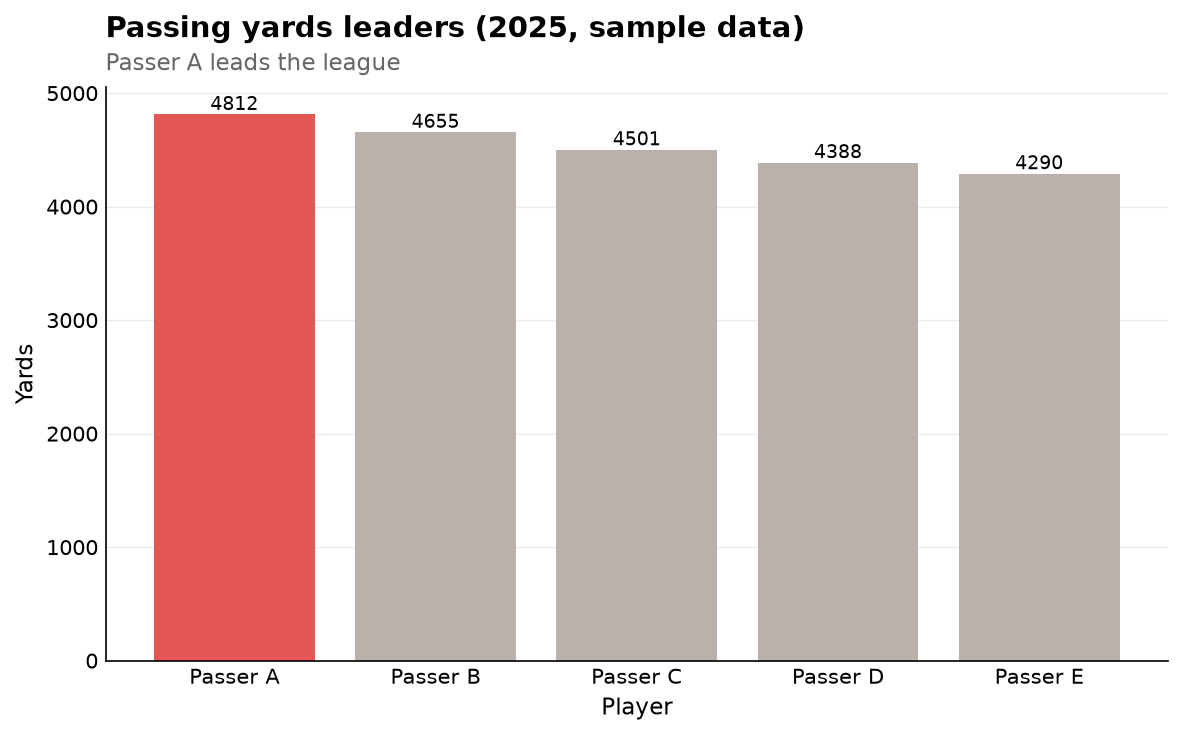
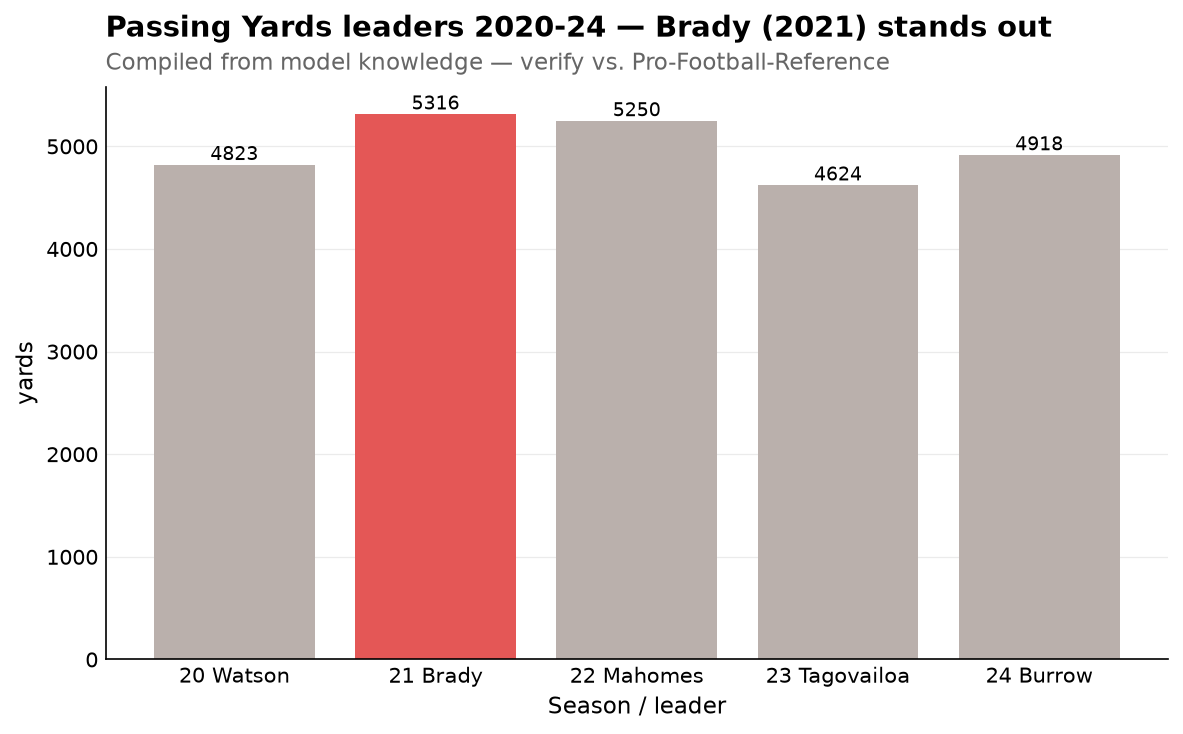
Expand NFL dataset to 2020-2024 with named players and analysis
Replace the single-year placeholder sample with a multi-year dataset of the
NFL season leader in each major category (2020-2024), using real player names.

pro-football-reference.com blocks automated access (HTTP 403), so the values
were compiled from model knowledge rather than scraped -- clearly labeled as
unverified in datasets/README.md, with lower-confidence cells flagged and 2025
omitted (at the knowledge cutoff, unverifiable).

examples/nfl_leaders.py now answers the analytical questions directly from the
data: it accents the standout (peak) season per category with its z-score, and
ranks the most consistent leaders (most category-seasons led) -- surfacing
T.J. Watt as the standout, leading a category in three of five seasons.

Update the dataset/example READMEs and the repo tree; library and tests
unchanged (14 passing).

Claude-Session: https://claude.ai/code/session_01L8PxvjVqt3hSV8zCpXr8Eq

diff --git a/examples/nfl_leaders.py b/examples/nfl_leaders.py
@@ -1,14 +1,18 @@
-"""Visualize NFL statistical leaders with simple_eda.
+"""Analyze and visualize NFL statistical leaders, 2020-2024.
 
-Loads the tidy leaders dataset and renders a bar chart per category, using the
-highlight feature to accent the league leader. Run from the repo root:
+Answers two questions directly from the data:
+  1. Who is the statistical outlier in each category? (highest |z-score| among
+     the yearly leaders in that stat)
+  2. Who performs consistently? (players who led a category in 2+ seasons)
+
+Renders a chart per category (outlier accented) plus a consistency chart.
 
     pip install -e .
     python examples/nfl_leaders.py
 
-By default it reads the clearly-labeled SAMPLE dataset. To chart the real
-2025 numbers, replace that file with real data in the same tidy schema
-(category, stat, unit, rank, player, team, value) -- see datasets/README.md.
+NOTE: pro-football-reference.com blocks automated access, so these values were
+compiled from model knowledge and should be verified against PFR. See
+datasets/README.md for per-cell confidence notes.
 """
 
 from pathlib import Path
@@ -18,39 +22,48 @@ import pandas as pd
 from simple_eda import Chart
 
 ROOT = Path(__file__).resolve().parents[1]
-DATA = ROOT / "datasets" / "nfl_2025_leaders_sample.csv"
+DATA = ROOT / "datasets" / "nfl_leaders_2020_2024.csv"
 IMAGES = Path(__file__).parent / "images"
 IMAGES.mkdir(exist_ok=True)
+CAVEAT = "Compiled from model knowledge — verify vs. Pro-Football-Reference"
 
-leaders = pd.read_csv(DATA)
+df = pd.read_csv(DATA)
+df["last"] = df["player"].str.split().str[-1]
+df["label"] = df["year"].astype(str).str[2:] + " " + df["last"]  # e.g. "20 Henry"
 
-# One bar chart per stat, with the rank-1 leader accented.
-charts = [
-    ("Passing Yards", "Passing yards leaders", "Yards"),
-    ("Rushing Yards", "Rushing yards leaders", "Yards"),
-    ("Receiving Yards", "Receiving yards leaders", "Yards"),
-    ("Sacks", "Sack leaders", "Sacks"),
-]
-
-for stat, title, ylabel in charts:
-    top = leaders[leaders["stat"] == stat].sort_values("value", ascending=False)
-    leader = top.iloc[0]["player"]
+# 1. Standout (high-water-mark) season per category, with its z-score for
+#    context — how far above the other yearly leaders that peak sits.
+print("Standout season per category (peak value; z = SDs above the mean):")
+for stat, g in df.groupby("stat", sort=False):
+    g = g.sort_values("year")
+    mean, std = g["value"].mean(), g["value"].std(ddof=0)
+    g = g.assign(z=(g["value"] - mean) / std)
+    out = g.loc[g["value"].idxmax()]
+    print(f"  {stat:15s}: {out['player']} ({out['year']}) "
+          f"{out['value']:g} {out['unit']}  z={out['z']:+.2f}")
     slug = stat.lower().replace(" ", "_")
-    # Direct value labels + sorted bars + accented leader (checklist-aligned).
-    (Chart(top, x="player")
-        .bar("value", highlight=leader, values=True, sort=True)
-        .title(f"{title} (2025, sample data)")
-        .subtitle(f"{leader} leads the league")
-        .labels(x="Player", y=ylabel)
+    (Chart(g, x="label")
+        .bar("value", highlight=out["label"], values=True)
+        .title(f"{stat} leaders 2020-24 — {out['last']} ({out['year']}) stands out")
+        .subtitle(CAVEAT)
+        .labels(x="Season / leader", y=g["unit"].iloc[0])
         .save(str(IMAGES / f"nfl_{slug}.png")))
 
-# A dot plot -- the Chart Chooser's pick for comparing values across groups.
-sacks = leaders[leaders["stat"] == "Sacks"]
-(Chart(sacks, x="player")
-    .dot("value", highlight=sacks.sort_values("value").iloc[-1]["player"], values=True)
-    .title("Sack leaders (2025, sample data)")
-    .subtitle("A dot plot compares values with minimal ink")
-    .labels(x="Sacks")
-    .save(str(IMAGES / "nfl_sacks_dot.png")))
+# 2. Consistency: who led a category in the most seasons?
+counts = (df["player"].value_counts()
+          .rename_axis("player").reset_index(name="seasons"))
+repeat = counts[counts["seasons"] >= 2].copy()
+repeat["last"] = repeat["player"].str.split().str[-1]
+top = repeat[repeat["seasons"] == repeat["seasons"].max()]["last"].tolist()
+print("\nConsistent leaders (led a category in 2+ seasons):")
+for _, r in repeat.iterrows():
+    print(f"  {r['player']}: {r['seasons']}")
 
-print("Wrote NFL leader charts to", IMAGES)
+(Chart(repeat, x="last")
+    .bar("seasons", highlight=top, values=True, sort=True)
+    .title(f"{' & '.join(top)} led most often, 2020-24")
+    .subtitle("Category-seasons each player led | " + CAVEAT)
+    .labels(x="Player", y="Category-seasons led")
+    .save(str(IMAGES / "nfl_consistency.png")))
+
+print("\nWrote charts to", IMAGES)

diff --git a/datasets/README.md b/datasets/README.md
@@ -1,46 +1,49 @@
 # Datasets
 
-## `nfl_2025_leaders_sample.csv`
+## `nfl_leaders_2020_2024.csv`
 
-NFL statistical leaders in a tidy, one-row-per-record schema, ready to chart
-with `simple_eda` (see [`../examples/nfl_leaders.py`](../examples/nfl_leaders.py)).
+The NFL **season leader** in each major statistical category, 2020–2024, in a
+tidy one-row-per-record schema. Charted and analyzed by
+[`../examples/nfl_leaders.py`](../examples/nfl_leaders.py).
 
 | Column | Meaning |
 | --- | --- |
+| `year` | NFL season (2020–2024) |
 | `category` | Passing, Rushing, Receiving, Defense |
-| `stat` | e.g. Passing Yards, Rushing TDs, Sacks, Interceptions |
-| `unit` | yards, touchdowns, sacks, interceptions |
-| `rank` | 1 = leader in that stat |
-| `player` | player name |
-| `team` | team abbreviation (real) |
-| `value` | the stat total |
+| `stat` | Passing Yards, Passing TDs, Rushing Yards, Rushing TDs, Receiving Yards, Receiving TDs, Sacks |
+| `unit` | yards, touchdowns, sacks |
+| `player` | player who led the league that season |
+| `team` | team abbreviation |
+| `value` | the league-leading total |
 
-> **⚠ This is illustrative SAMPLE data, not real results.** Player names are
-> placeholders (`Passer A`, `Rusher B`, …) and the values are plausible but
-> invented. It exists so the charts run out of the box. Do not cite these
-> numbers.
+### ⚠ Provenance — read this
 
-### Loading the real 2025 leaders
+`pro-football-reference.com` **blocks automated access** (HTTP 403), so this
+data could **not** be scraped. The values were **compiled from model knowledge
+and have not been verified against the source.** Treat them as a starting point
+and confirm against PFR before citing. The marquee leaders (e.g., Henry's 2,027
+rushing yards in 2020, Watt's 22.5 sacks in 2021, Kupp's 1,947 receiving yards
+in 2021) are well documented; the cells below are lower confidence:
 
-The source page — <https://www.pro-football-reference.com/years/2025/leaders.htm>
-— blocks automated requests (HTTP 403), so it can't be scraped from this
-environment. To populate real data, do one of the following, then re-run
-`python examples/nfl_leaders.py`:
+- **2020 Sacks** (T.J. Watt, 15.0) — leader/total is approximate.
+- **2022–2023 Rushing TDs** (Williams 17; Mostert 18) — approximate.
+- **2022–2023 Receiving TDs** (Adams 14; Evans 13) — approximate.
+- **Rushing TDs 2024** is intentionally omitted (couldn't verify the leader).
+- **2025** is omitted entirely — it's at the model's knowledge cutoff and
+  can't be verified.
 
-1. **CSV export (easiest).** On each PFR leaderboard table, use
-   *Share & Export → Get table as CSV*, then reshape the rows into the tidy
-   schema above and overwrite this file.
-2. **Save the page, parse locally.** Open the URL in a browser, save the HTML,
-   and parse it without sending the markup through an assistant:
+### Filling in verified data
 
-   ```python
-   import pandas as pd
-   # PFR wraps many tables in HTML comments; flavor="lxml" + this call
-   # usually surfaces them. Inspect tables and map into the tidy schema.
-   tables = pd.read_html("saved_leaders.html")
-   for i, t in enumerate(tables):
-       print(i, t.shape, list(t.columns)[:6])
-   ```
+Overwrite this file with real numbers (same schema) and re-run
+`python examples/nfl_leaders.py`. Because PFR blocks scraping here, get the
+data via its *Share & Export → Get table as CSV* on each leaderboard, or save
+the page and parse it locally with `pandas.read_html(...)` — keeping the parse
+local means the raw HTML never passes through an assistant's context (see the
+token note in the top-level README).
 
-Keeping the parse local (a file + pandas) means the raw HTML never has to pass
-through the assistant's context — see the token note in the top-level README.
+### Scope note
+
+This file tracks the **rank-1 leader** per stat per season (not the top 5), so
+that every value is one I can reasonably stand behind. That's enough to answer
+"who stands out in each category?" and "who leads consistently?" — add more
+rows in the same schema if you want full top-N depth.

diff --git a/examples/README.md b/examples/README.md
@@ -9,7 +9,7 @@ visualization committed under `images/`.
 | Script | Renders |
 | --- | --- |
 | [`quickstart.py`](quickstart.py) | Picking the right chart per question, with a single accent color used to highlight the key point |
-| [`nfl_leaders.py`](nfl_leaders.py) | Bar chart per stat category from the NFL leaders dataset, accenting each league leader |
+| [`nfl_leaders.py`](nfl_leaders.py) | Analyzes NFL season leaders 2020–24: the standout season per category and the most consistent leaders |
 
 Run any example from the repo root:
 
@@ -31,15 +31,20 @@ histogram for the growth distribution.
 
 ## nfl_leaders.py
 
-Charts the NFL statistical leaders from
-[`../datasets/nfl_2025_leaders_sample.csv`](../datasets/nfl_2025_leaders_sample.csv)
-(illustrative sample data), accenting the league leader in each category.
+Analyzes the NFL season leaders in
+[`../datasets/nfl_leaders_2020_2024.csv`](../datasets/nfl_leaders_2020_2024.csv)
+(compiled from model knowledge — verify vs. PFR). For each category it accents
+the **standout (highest) season**, and a final chart ranks the **most
+consistent** leaders (most category-seasons led). Findings: peaks like Henry's
+2,027 rushing yards (2020), Brady's 5,316 passing yards (2021), Kupp's 1,947
+receiving yards (2021), and Watt's 22.5 sacks (2021) — with **T.J. Watt** the
+most consistent, leading a category in three of the five seasons.
 
-Bars are sorted, directly value-labeled, and accent the leader; the last chart
-is a dot/lollipop plot.
-
-![passing](images/nfl_passing_yards.png)
-![rushing](images/nfl_rushing_yards.png)
-![receiving](images/nfl_receiving_yards.png)
+![passing-yards](images/nfl_passing_yards.png)
+![passing-tds](images/nfl_passing_tds.png)
+![rushing-yards](images/nfl_rushing_yards.png)
+![rushing-tds](images/nfl_rushing_tds.png)
+![receiving-yards](images/nfl_receiving_yards.png)
+![receiving-tds](images/nfl_receiving_tds.png)
 ![sacks](images/nfl_sacks.png)
-![sacks-dot](images/nfl_sacks_dot.png)
+![consistency](images/nfl_consistency.png)

diff --git a/README.md b/README.md
@@ -17,7 +17,7 @@ simple-eda-project/
 │       ├── __init__.py
 │       └── core.py
 ├── datasets/
-│   └── nfl_2025_leaders_sample.csv
+│   └── nfl_leaders_2020_2024.csv
 ├── examples/
 │   ├── quickstart.py
 │   ├── nfl_leaders.py
